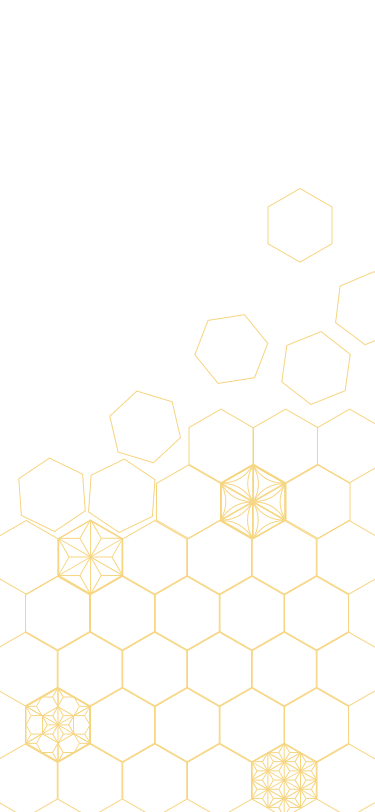
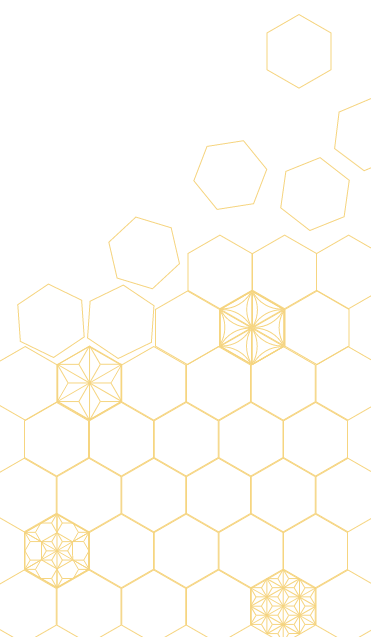
navi

diff --git a/css/index.css b/css/index.css
@@ -45,7 +45,7 @@ h2{
 }
 
 .background{
-  background-image: url(../images/bg/bg_orange2.png);
+  background-image: url(../images/bg/bg_orange.png);
   background-repeat: no-repeat;
   background-position: center;
   background-size: cover;
@@ -88,6 +88,7 @@ section p{
   background-repeat: no-repeat;
   background-position: center center;
   margin-bottom: 5%;
+  box-shadow: 3px 5px 6px #c4c4c4;
 }
 section p:nth-of-type(2){
   font-size: 0.9rem;
@@ -129,6 +130,84 @@ section:nth-of-type(9) .cover{
 }
 section:nth-of-type(10) .cover{
   background-image: url(../images/bg/b_ginga.png);
+}
+
+.overlay{
+  display: block;
+  width: 0;
+  height: 0;
+  background-color: rgba(0, 0, 0, 0.5);
+  position: absolute;
+  top: 0;
+  left: 0;
+  z-index: 2;
+  opacity: 0;
+  transition: opacity .5s;
+}
+.overlay.open{
+  width: 100%;
+  height: 100%;
+  opacity: 1;
+}
+.menu-trigger{
+  display: inline-block;
+  vertical-align: middle;
+  cursor: pointer;
+  position: fixed;
+  bottom: 3%;
+  right: 5%;
+  z-index: 100;
+  box-shadow: 8px 10px 20px #c4c4c4;
+}
+nav{
+  width: 250px;
+  height: 100%;
+  padding: 0% 7%;
+  background-color: #cfe283;
+  position: fixed;
+  top: 0;
+  right: 0;
+  z-index: 10;
+  transform: translate(250px);
+  transition: all .5s;
+
+  background-image: url(../images/bg/navi_bg.png);
+  background-repeat: no-repeat;
+  background-position: bottom;
+  background-size: contain;
+}
+nav.open{
+  transform: translateZ(0);
+}
+nav p:nth-of-type(1){
+  background-image: url(../images/bg/navi.png);
+  background-repeat: no-repeat;
+  background-position: center bottom;
+  background-size: contain;
+  height: 100px;
+  width: 100px;
+  position: relative;
+  right: -50%;
+  top: 2%;
+}
+nav ul:nth-of-type(1){
+  padding-bottom: 30%;
+}
+nav ul:nth-of-type(1) li{
+  border-bottom: solid #fffbd5 2px;
+  padding: 10% 0% 3% 3%;
+}
+.grey{
+  color: grey;
+}
+nav p:nth-of-type(2){
+  font-size: 1.4rem;
+}
+nav p:nth-of-type(3){
+  padding: 10% 0% 5% 0%;
+}
+nav ul:nth-of-type(2){
+  padding-left: 5%;
 }
 
 

diff --git a/index.html b/index.html
@@ -6,6 +6,7 @@
   <title>宮沢賢治 作品集</title>
   <link rel="stylesheet" href="./css/destyle.css" />
   <link rel="stylesheet" href="./css/index.css" />
+  <script src='https://ajax.googleapis.com/ajax/libs/jquery/3.2.1/jquery.min.js'></script>
 </head>
 <body>
 
@@ -122,7 +123,50 @@
     </div>  <!-- books -->
   </main>
 
+  <div class="menu-trigger">
+    <p><img src="images/navi2.png" width="70" alt="menu"></p>
+  </div>
+  <nav>
+    <p></p>
+    <ul>
+      <li><a href="">新規登録</a></li>
+      <li><a href="">ログイン</a></li>
+      <li><a href="">最初から読む</a></li>
+      <li><a href="">他の作品を読む</a></li>
+      <li class="grey"><a href="">お気に入り</a></li>
+      <li class="grey"><a href="">ブックマーク</a></li>
+    </ul>
+    <p>「雨ニモマケズ」</p>
+    <p>目次　25％読済</p>
+    <ul>
+      <li>・雨にも負けず</li>
+    </ul>
+  </nav>
+  <div class="overlay"></div>
+
   <footer>(C) Group A</footer>
+
+  <script type="text/javascript">
+    $('.menu-trigger').on('click', function(){
+      if ($(this).hasClass('active')) {
+        $(this).removeClass('active');
+        $('nav').removeClass('open');
+        $('.overlay').removeClass('open');
+      }else {
+        $(this).addClass('active');
+        $('nav').addClass('open');
+        $('.overlay').addClass('open');
+      }
+    });
+
+    $('.overlay').on('click', function(){
+      if ($(this).hasClass('open')) {
+        $(this).removeClass('open');
+        $('.menu-trigger').removeClass('active');
+        $('nav').removeClass('open');
+      }
+    })
+  </script>
 
   <script type="text/javascript" src="./js/main.js"></script>
 </body>
